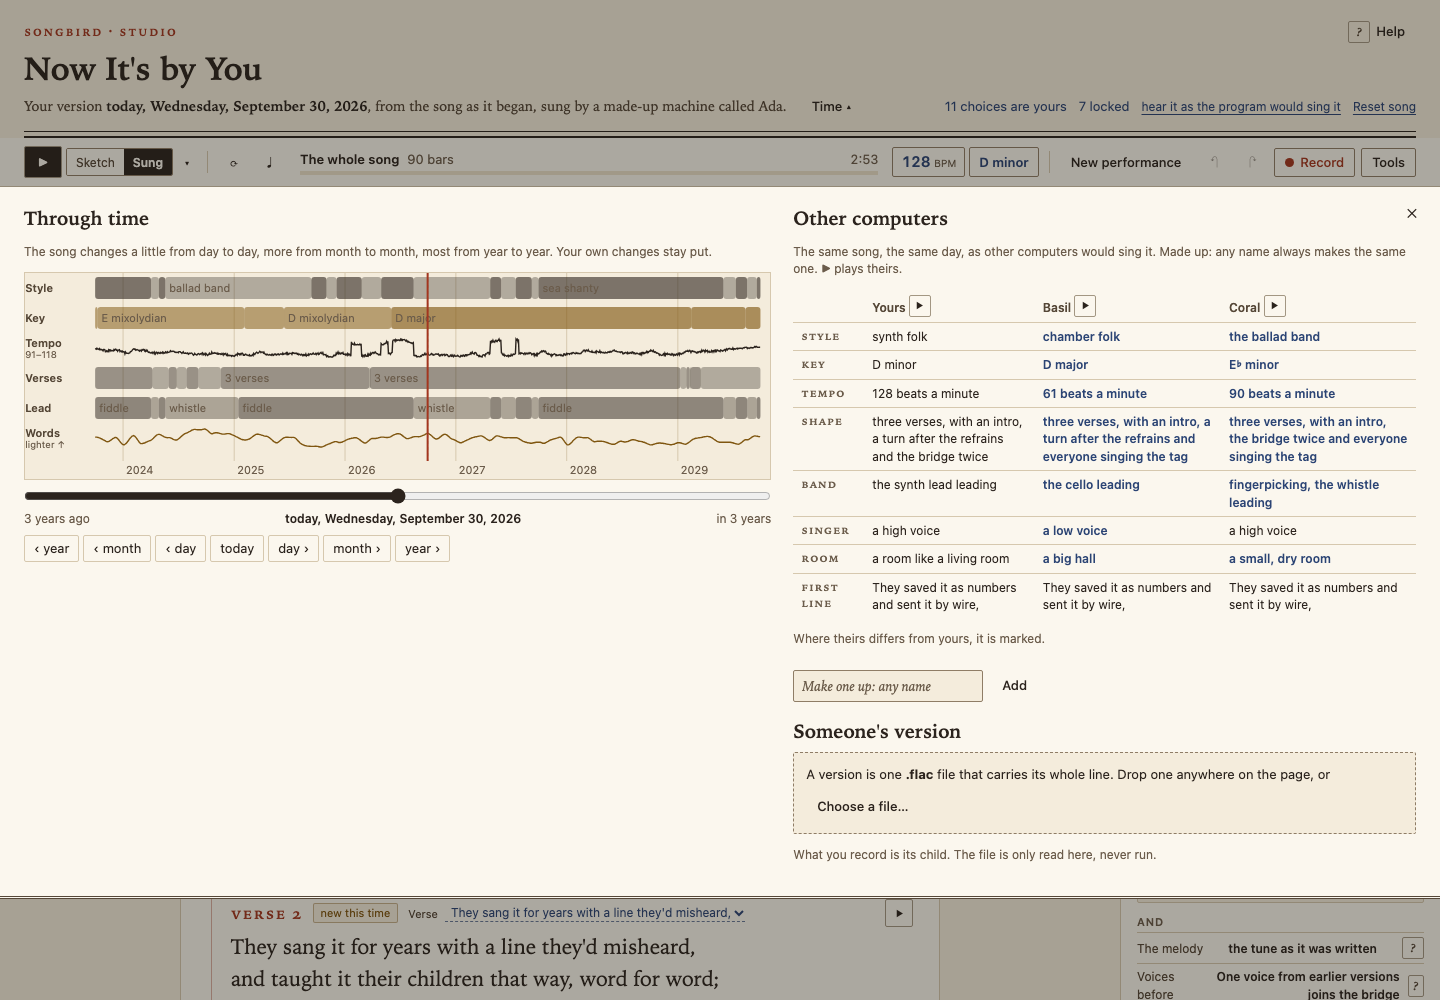
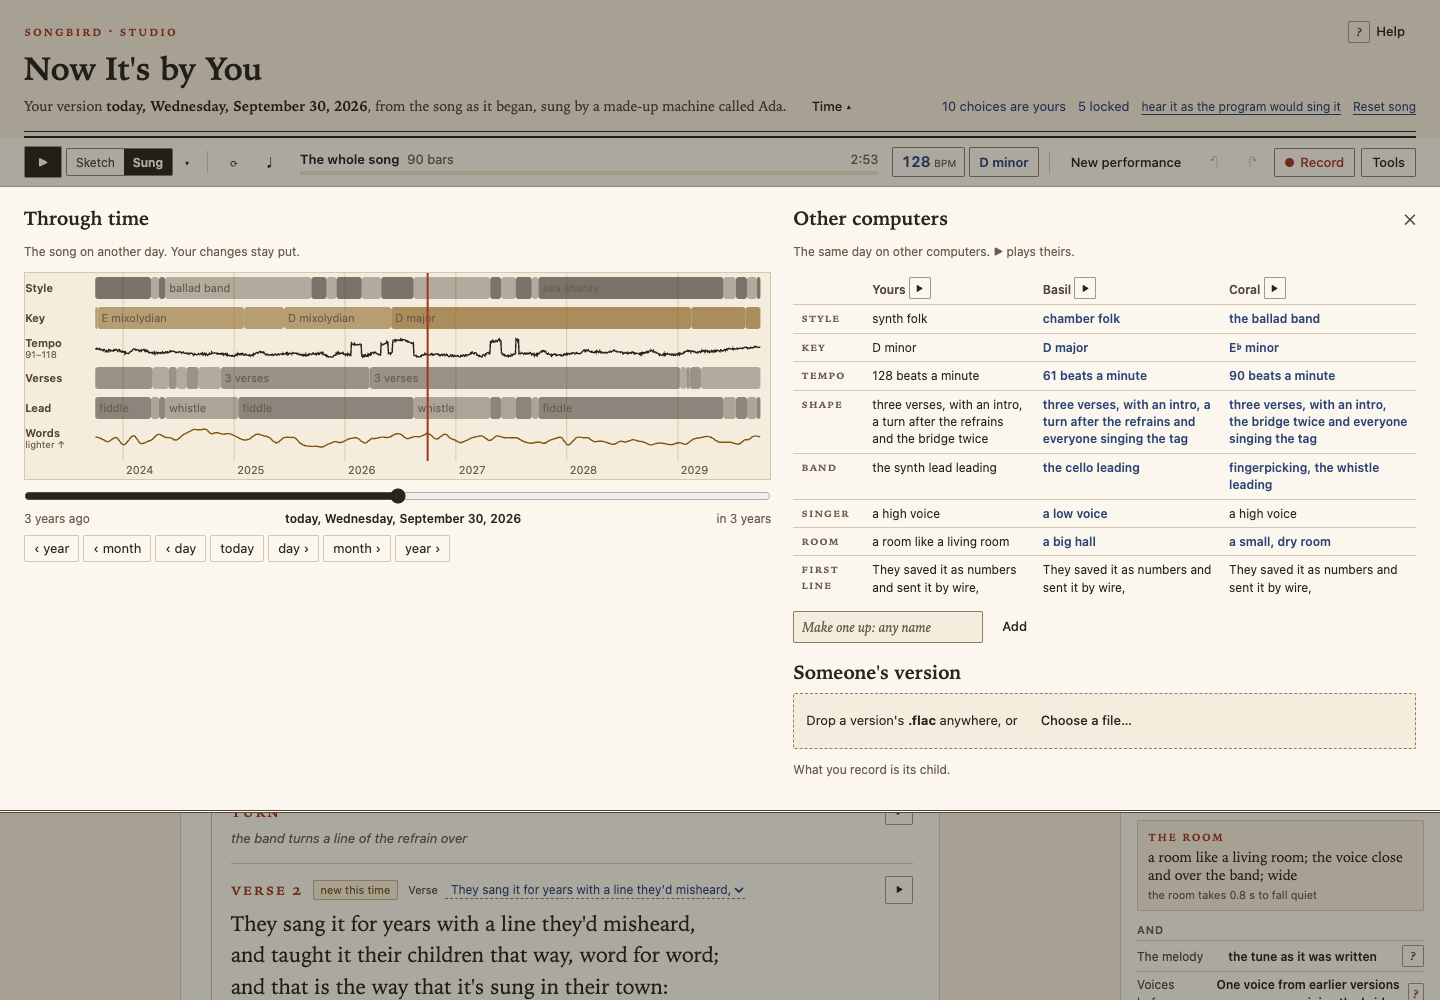
docs/STUDIO-REDESIGN.md, "After the artist's second look": the ? and ✕ one pair, one grid in the column, what it is now on one line, the sheet under the views' bar, the text cut (before and after), the program's own value releasing; the studio-built pictures taken again, the phone's at 390 × 844

diff --git a/docs/STUDIO-REDESIGN.md b/docs/STUDIO-REDESIGN.md
@@ -714,3 +714,59 @@ the stars out of a played section's words; the pan's words follow the drag.
 
 The pictures above (`studio-built-*.png`, but the phone's, which show neither) were taken again with the
 EDM brief's kind of version (synth folk at 128 in D minor, a 16-bar build, a played refrain, three locks).
+
+**After the artist's second look (2026-09-30)**, from a phone's picture of the column on a line of Refrain 1's
+words. Her rule, kept for the whole page: *say the simplest thing that's true in the UI; tooltips, comments and
+the README can be more explicit.*
+
+- *The ? and the ✕ one pair*: both `.iconbtn`, 28 px squares (44 on a phone), the same glyph size, on the
+  rubric's baseline (a rubric on two lines keeps them on its first); the Tools sheet's, the Time drawer's and
+  Help's ✕ are the same button, centred on their heading's line.
+- *One grid in the column*: every row with a label is a label's column (72 px) and the controls' (whatever else
+  the row holds goes under its controls, never back under the label); sliders the same (the value at the row's
+  end, the ends under the slider); the words' choosers, a note's Pitch, Start and Length and a chord's Root,
+  Quality, Bass, In the key and Sevenths on it too. One 10 px step between rows (`--gap`); quiet buttons have
+  no inset, so they start at the content's edge. What was out of line: ▶ *Hear it* sat 24 px in because the
+  column's `.foot` took the page footer's padding (the footer's rule is `footer.foot` now); the Line chips were
+  64 px of min-width plus a flex gap from their label; *Use this line* had a status paragraph, a hint and a
+  second hint around it. A cell's Lock is in the foot beside ▶, an action on the cell as the release is.
+- *What it is now*, the line under the rubric, is one line (the whole in its tooltip), not two kept for it:
+  no gap under a short answer, and a longer one still moves nothing below.
+- *The page through a slit*: on a phone the sheet runs down to the screen's edge under the views' bar (the bar
+  over it, `z-index` 26 to its 25), its last rows clear of the bar by padding; the bar has a fixed height
+  (`--bar-h`) plus `env(safe-area-inset-bottom)` (the viewport meta asks for `viewport-fit=cover`). Checked at
+  the sheet's two heights, scrolled to the top, the middle and the end of the Page.
+- *Less text* (before → after):
+  - a line of words: "the song's own, new this time: 11 syllables" / "Line 4 11 / 11 syllables" / "One syllable
+    for each note… the story and rhyme are yours." / "Checked for its count and the singer's pronunciation… The
+    meaning and the rhyme are yours." → "the song's own, new this time" / "11 / 11 syllables" / "One syllable a
+    note; split longer words with hyphens (car-ry)." (the stars and who checks what: the field's tooltip and the
+    column's ?);
+  - the Tools sheet: "Your tools *take it out, bring it in*" → "Your tools" (the columns say it); Record it
+    "One file that plays anywhere and carries the program that sang it, so anyone can make the next version.
+    Your choices are marked as yours; your name never is." → "One file that plays anywhere and carries the
+    program, for the next version. Your name isn't in it."; MIDI → "Every part on its own track, with the words
+    and chords."; the sheet's foot no longer says again what a recording is (the server's `packet_note` says only
+    where it's kept, when not here); every longer sentence is the tool's tooltip; its rows one grid;
+  - the Time drawer: "The song changes a little from day to day, more from month to month, most from year to
+    year. Your own changes stay put." → "The song on another day. Your changes stay put."; "Where theirs differs
+    from yours, it is marked." → the table's tooltip; on a phone the day on a line of its own;
+  - Arrange's "Drag a section to move it…" and Mix's "Judge the voice against the band…" → their view's ?;
+    "the program's" under every Mix strip → nothing (a strip of yours says what it was); the Master's note, the
+    seam's, the choir's, the band's paragraphs, the key's "A minor mode leans the words darker" → the column's ?
+    or a tooltip; a section's words' reason (the Page's ochre line under a section) → its tag's tooltip;
+  - a recording made: "Saved renders/x.flac (2:54): the song, the program that sang it and its record, in one
+    file." / "3 choices are marked as yours in it (what you chose, never who you are)." → "Saved renders/x.flac
+    (2:54)." / "3 choices marked as yours." (the rest in their tooltips);
+  - where a song is made: "This browser makes the song itself, as the server would…" → "This browser makes the
+    song…". Nothing on the page qualifies byte identity or a platform any more; what replay promises is said
+    once, plainly, in docs/PACKET.md ("Replaying.") and the packet's README, and `songbird render --replay`
+    reports "matches" or "matches within N steps (largest difference −X dB)".
+- *The program's own value releases*: a chip, a shape part, a style or band chip, a slider, the tempo or the key
+  set back to the program's own value gives the choice back (`choose` in score.js, from the record's marks'
+  `was`), as *The program's own* does; so does *Everyone* in a section for a cell whose program level it is
+  (`M.levelPatch`), and an unmute to the program's level.
+
+The pictures `studio-built-*.png` were taken again (headless Chrome, the page's own address with an edit map of
+that kind: synth folk at 128 in D minor, a 16-bar build, a played refrain, a riser and an impact, four on the
+floor in two refrains, a few locks), the phone's too (390 × 844 at 2×, now possible by device emulation).
